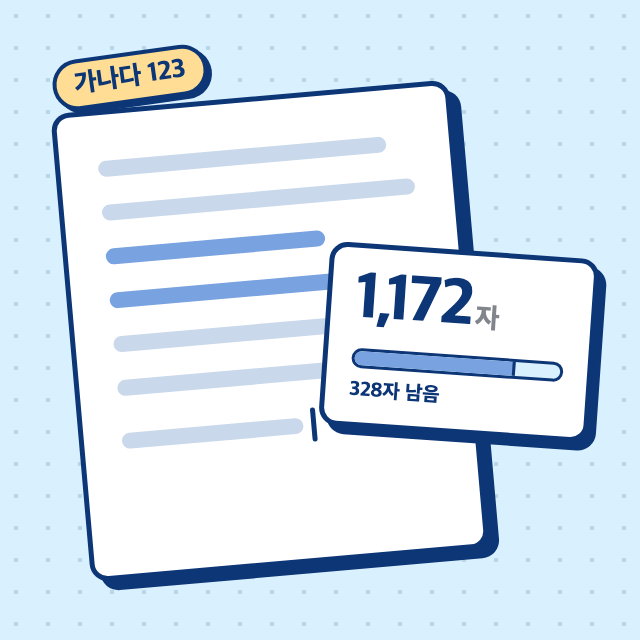
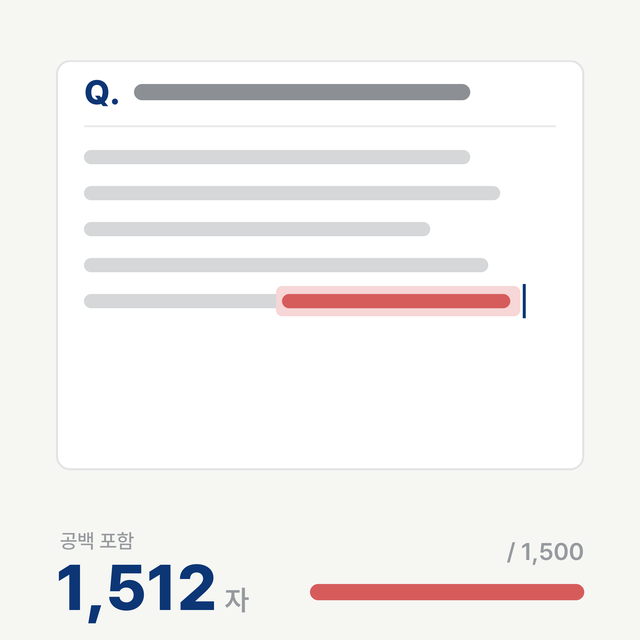
docs : 서비스 설명을 한두 줄로 줄이고 글자수 세기·조명 연습실 썸네일과 사이트 파비콘 교체

diff --git a/apps/services/lib/tools.ts b/apps/services/lib/tools.ts
@@ -73,7 +73,7 @@ export const TOOLS: Tool[] = [
     title: "뜨개뜨개",
     desc: "한 코 한 코, 틀리지 말고 빠르게!",
     about:
-      "숫자 키로 실 색을 바꿔 가며 도안대로 한 코씩 떠요. 틀린 코는 풀고 다시 뜨면 돼요. 도안 22개에 자유 모드도 있고, 다 뜨면 메달을 받아요.",
+      "도안대로 실 색을 바꿔 가며 한 코씩 떠서 목도리를 완성하는 뜨개 게임이에요.",
     tags: ["뜨개질", "목도리", "도안", "타이핑", "메달"],
     thumb: "/playground/knit-muffler.png",
   },
@@ -83,7 +83,7 @@ export const TOOLS: Tool[] = [
     title: "비주얼 노벨 스튜디오",
     desc: "내가 그린 캐릭터가 말을 하기 시작했다",
     about:
-      "네모네모빔에서 그린 그림을 캐릭터와 배경으로 불러와요. 컷마다 누가 무슨 말을 할지, 어떤 음악을 깔지 정해 이어 붙이고 그 자리에서 재생해 봐요.",
+      "직접 그린 캐릭터와 배경으로 짧은 비주얼 노벨을 만들어 바로 재생해 보는 도구예요.",
     tags: ["비주얼노벨", "스토리", "대사", "캐릭터", "배경음악"],
     thumb: "/playground/visual-novel-studio.png",
   },
@@ -93,7 +93,7 @@ export const TOOLS: Tool[] = [
     title: "별들은 굉장한 빛메이커이다",
     desc: "핵융합 순서대로 원소를 합성하는 항성 시뮬레이션",
     about:
-      "수소를 모아 헬륨을 만들고, 헬륨으로 탄소를 만들고… 그렇게 철까지 가요. 복사압과 중력이 균형을 잃거나 철이 쌓이면 별이 터지고, 다음 별이 이어서 태어나요.",
+      "수소에서 철까지, 별 속에서 원소가 만들어지는 순서를 직접 이어 가는 핵융합 게임이에요.",
     tags: ["우주", "별", "핵융합", "원소", "초신성", "시뮬레이션"],
     thumb: "/playground/stellar-forge.png",
   },
@@ -103,7 +103,7 @@ export const TOOLS: Tool[] = [
     title: "올해의 영수증 만들기",
     desc: "올해 목표, 얼마나 달성했나요? 영수증을 출력하시겠습니까?",
     about:
-      "올해 목표를 품목으로 적고 인쇄를 누르면 프린터에서 영수증이 나와요. 해낸 만큼만 결제돼 있어서, 맨 아래 TOTAL PAID를 보면 올해가 어땠는지 보여요.",
+      "한 해 목표를 얼마나 이뤘는지 영수증 한 장으로 돌아보는 연말 회고 도구예요.",
     tags: ["목표", "회고", "체크리스트", "연말", "영수증"],
     thumb: "/playground/yearly-receipt.png",
   },
@@ -113,7 +113,7 @@ export const TOOLS: Tool[] = [
     title: "네모네모빔",
     desc: "픽셀아트의, 픽셀아트에 의한, 픽셀아트를 위한 에디터",
     about:
-      "픽셀아트 그릴 때 필요한 건 웬만큼 다 있어요. 레이어로 나눠 그리고, 프레임을 이어 애니메이션을 만들고, 사진을 넣으면 픽셀로 바꿔 줘요.",
+      "설치 없이 브라우저에서 도트 그림과 애니메이션을 만드는 픽셀아트 에디터예요.",
     tags: ["도트", "그림", "애니메이션", "스프라이트", "PNG", "GIF"],
     thumb: "/playground/nemo-beam.png",
   },
@@ -123,7 +123,7 @@ export const TOOLS: Tool[] = [
     title: "자산 시뮬레이터",
     desc: "내 작고 귀여운 돈, 잘 모이고 있나?",
     about:
-      "지금 가진 돈과 앞으로 들어오고 나갈 돈을 넣으면, 30년 뒤까지 달마다 얼마가 될지 계산해 줘요. 이자와 물가도 반영하고, ‘이렇게 하면 어떨까’ 싶은 경우를 여러 개 만들어 비교해요.",
+      "지금 가진 돈과 앞으로의 수입·지출로 몇 년 뒤 자산이 어떻게 될지 미리 계산해 봐요.",
     tags: ["돈", "재테크", "저축", "가계부", "복리", "계산기"],
     thumb: null,
   },
@@ -133,7 +133,7 @@ export const TOOLS: Tool[] = [
     title: "문자 인코딩 변환기",
     desc: "'가'는 UTF-8로 EA B0 80",
     about:
-      "글자를 넣으면 UTF-8·UTF-16·EUC-KR·ASCII로 각각 몇 바이트, 어떤 값인지 표로 보여 줘요. 반대로 바이트나 U+AC00 같은 코드를 넣으면 글자로 되돌려요.",
+      "글자가 UTF-8·EUC-KR 같은 인코딩에서 어떤 바이트로 저장되는지 확인하는 변환기예요.",
     tags: ["인코딩", "유니코드", "UTF-8", "EUC-KR", "아스키", "ASCII", "바이트", "16진수"],
     thumb: null,
   },
@@ -143,8 +143,8 @@ export const TOOLS: Tool[] = [
     title: "색상 추출기",
     desc: "콕 찍은 한 색부터 사진 팔레트까지",
     about:
-      "이미지를 붙여 넣고 원하는 곳을 누르면 HEX·RGB·HSL 코드를 알려 줘요. 이미지에서 많이 쓰인 색 3~12개를 컬러 팔레트로 골라 이미지와 함께 PNG로 저장해요. 크롬·엣지에서는 화면 어디서나 색상을 추출할 수 있어요.",
-    tags: ["색상", "컬러", "스포이트", "팔레트", "HEX", "RGB", "HSL", "색상코드", "색 조합", "컬러 팔레트"],
+      "이미지에서 원하는 색의 코드를 뽑거나, 많이 쓰인 색으로 팔레트를 만드는 도구예요.",
+    tags: ["색상", "컬러", "스포이트", "팔레트", "HEX", "RGB", "HSL", "색상코드", "색 조합", "컬러 팔레트", "PNG"],
     thumb: null,
   },
   {
@@ -153,7 +153,7 @@ export const TOOLS: Tool[] = [
     title: "모노리즘",
     desc: "딱, 딱, 뒤집어서 그리는 모자이크",
     about:
-      "얇은 칩이 촘촘히 깔린 판에서 칩을 뒤집거나 빼고 놓아 그림을 만들어요. 칩은 원·정사각형·마름모·육각형 중에서 골라요. 앞뒤 색이 다른 칩이 딱 소리를 내며 뒤집히고, 만든 판은 알아서 저장돼요.",
+      "앞뒤 색이 다른 칩을 하나씩 뒤집어 그림을 만드는 3D 모자이크 판이에요.",
     tags: ["모자이크", "스팽글", "도트", "3D", "픽셀아트", "칩"],
     thumb: "/playground/monorism-chips.png",
   },
@@ -163,9 +163,9 @@ export const TOOLS: Tool[] = [
     title: "조명 연습실",
     desc: "무대에 조명을 걸고 큐를 짜 보는 3D 연습실",
     about:
-      "조명기를 FOH·일렉트릭·붐 라인에 끌어다 걸고 채널 번호를 붙여요. 남녀 사람 모델을 14가지 자세로 세우고, 젤·줌·조준을 맞춘 뒤 큐마다 디머를 기록해 페이드로 이어 봐요. 소극장·중극장·대극장 객석에서 고른 자리로 어떻게 보이는지 확인하고, 만든 무대는 알아서 저장돼요.",
+      "3D 무대에 조명을 걸고 큐를 짜 보며 공연 조명을 연습하는 곳이에요.",
     tags: ["조명", "무대", "공연", "큐", "3D", "헤이즈", "연극", "채널", "젤", "좌석", "객석", "마네킹"],
-    thumb: null,
+    thumb: "/playground/stage-lighting.png",
   },
   {
     slug: "char-counter",
@@ -173,7 +173,7 @@ export const TOOLS: Tool[] = [
     title: "글자수 세기",
     desc: "공백 포함·제외, 바이트까지 바로",
     about:
-      "글을 붙여 넣으면 공백 포함·제외 글자 수, 바이트, 단어, 줄을 바로 세요. 글자 수 제한을 정하면 남은 글자를 막대로 보여 주고 넘친 부분은 빨갛게 칠해요. 드래그한 부분만 따로 세기도 하고, 문항을 붙여 넣으면 적힌 분량으로 제한을 바로 정해요. 옆에 메모장도 열어 둘 수 있어요.",
+      "자기소개서처럼 분량 제한이 있는 글을 쓰면서 글자 수를 바로 확인하는 도구예요.",
     tags: ["글자 수", "자기소개서", "자소서", "분량", "바이트 계산", "단어 수"],
     thumb: "/playground/char-counter.png",
   },
@@ -183,7 +183,7 @@ export const TOOLS: Tool[] = [
     title: "49년만에 도달한 1일",
     desc: "보이저 1호의 1광일 돌파 기념 연대기",
     about:
-      "보이저 1호가 지구에서 1광일 떨어진 곳에 닿았어요. 1977년 발사부터 1광일까지, 보이저가 찍은 원본 사진과 기록을 8비트 연대기로 이었어요. 지금 지점이 지구에서 얼마나 먼지 막대와 3D 레이더로 보여 주고, 실어 보낸 골든 레코드와 1광일 너머의 엔딩도 볼 수 있어요.",
+      "보이저 1호가 1광일에 닿은 것을 기념해, 49년 여정을 원본 사진과 기록으로 따라가는 8비트 연대기예요.",
     tags: ["보이저", "우주", "NASA", "탐사선", "창백한 푸른 점", "골든 레코드", "연대기", "8비트"],
     thumb: "/playground/voyager.png",
   },
